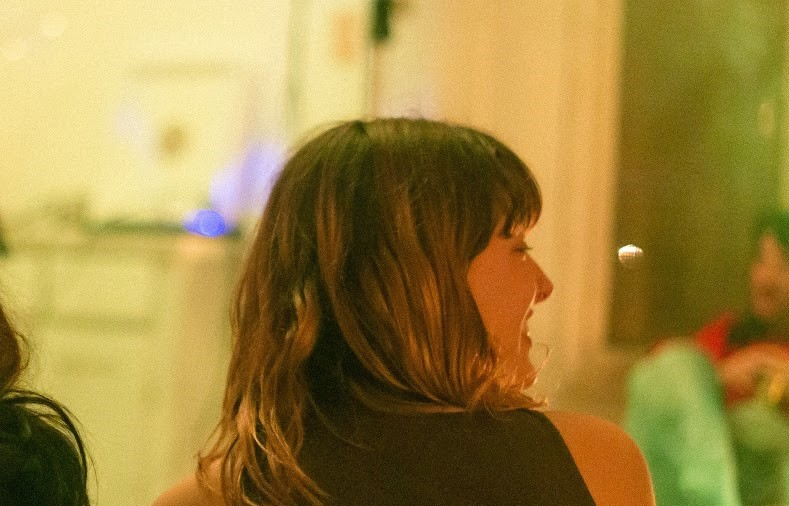
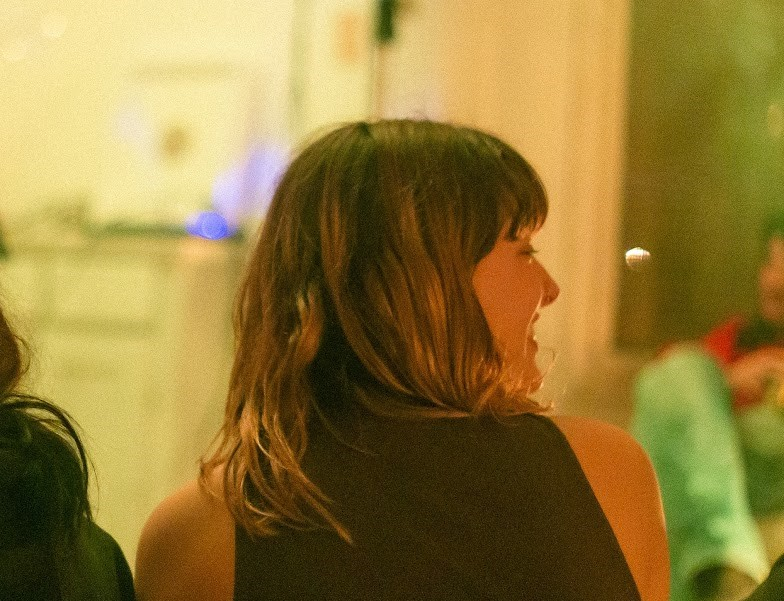
About

diff --git a/src/pages/About/About.tsx b/src/pages/About/About.tsx
@@ -4,8 +4,7 @@ export default function About() {
     return (
         <div className="about">
             <div className="about-main">
-                <div className="about-main-img" style={{backgroundImage: "url(./assets/gallery/about/about-5.jpg)"}}></div>
-                {/* <img src="." alt="" /> */}
+                <div className="about-main-img" style={{backgroundImage: "url(./assets/gallery/about/about.jpg)"}}></div>
             </div>
             <div className="about-history">
                 <div className="about-history-wrapper">
